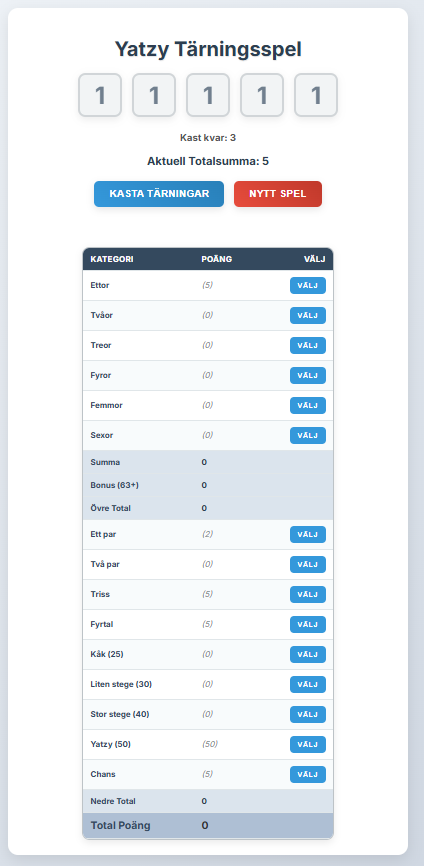
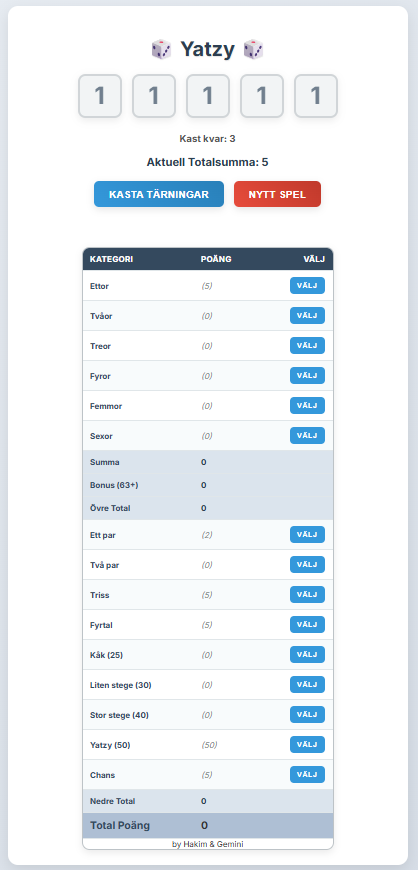
minor updates

diff --git a/yatzy-light.html b/yatzy-light.html
@@ -3,7 +3,7 @@
 <head>
     <meta charset="UTF-8">
     <meta name="viewport" content="width=device-width, initial-scale=1.0">
-    <title>Yatzy Tärningsspel</title>
+    <title>🎲 Yatzy 🎲</title>
     <link rel="stylesheet" href="https://cdnjs.cloudflare.com/ajax/libs/font-awesome/6.0.0-beta3/css/all.min.css">
     <style>
         @import url('https://fonts.googleapis.com/css2?family=Inter:wght@400;700&display=swap');
@@ -182,7 +182,7 @@
 </head>
 <body>
     <div class="game-container">
-        <h1>Yatzy Tärningsspel</h1>
+        <h1>🎲 Yatzy tärningar 🎲</h1>
         <div class="dice-container" id="diceContainer">
             <!-- Dice will be rendered here by JavaScript -->
         </div>
@@ -196,6 +196,7 @@
             <button id="rollButton">Kasta tärningar</button>
             <button id="resetButton">Starta om</button>
         </div>
+        by Hakim & Gemini
     </div>
 
     <script>

diff --git a/README.md b/README.md
@@ -1,9 +1,11 @@
 # Yatzy spelet
 
-Ett litet hjälpmedel för att spela yatzy utan tärningar. Slå ditt slag och välj vilka tärningar du vill spara. Lägg in poängen i tabellen. Alla kan ha den på sin mobil eller så kan man samsas om en.
+Ett litet hjälpmedel för att spela yatzy utan tärningar. 
+
+ℹ Slå ditt slag och välj vilka tärningar du vill spara. Lägg in poängen i tabellen. Alla kan ha den på sin mobil. Vill man bara ha digitala tärningar kan man använda yatzy tärning versionen.
 
 🎲 [Yatzy](https://htmlpreview.github.io/?https://github.com/hakimsjo/yatzy/blob/master/yatzy.html)
 
-🎲 [Yatzy light](https://htmlpreview.github.io/?https://github.com/hakimsjo/yatzy/blob/master/yatzy-light.html)
+![yatzy](image.png)
 
-![yatzy](./assets/yatzy.png)
+🎲 [Yatzy tärningar](https://htmlpreview.github.io/?https://github.com/hakimsjo/yatzy/blob/master/yatzy-light.html)
